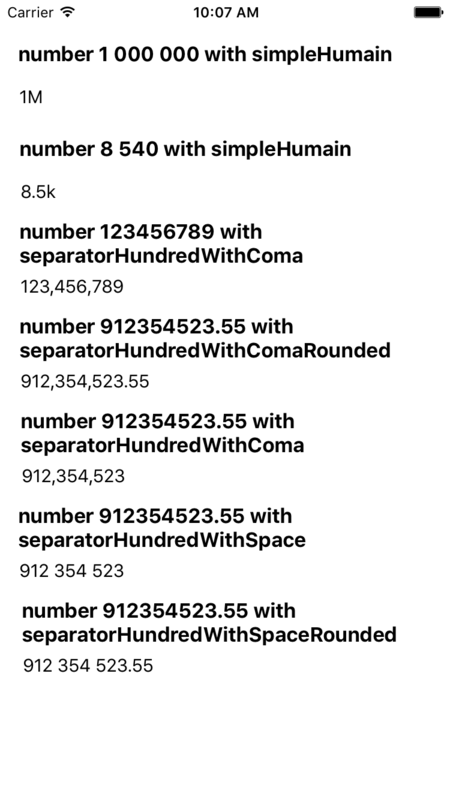
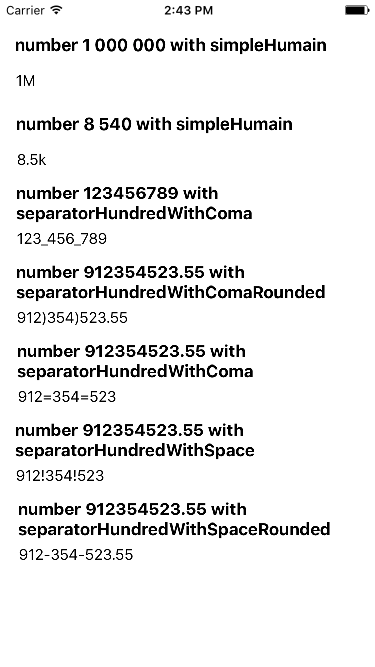
You can now specify a custom separator. Bug fixed when there is only one remaining number (ex: it was printing 4300 instead of 4,300). Unit Test modified. ViewController code changed. There is now two options (SeperatorHundred or SeperatorHundredRounded). Framework code changed.

diff --git a/DEMO/VisualHumainNumberTests/VisualHumainNumberTests.swift b/DEMO/VisualHumainNumberTests/VisualHumainNumberTests.swift
@@ -10,9 +10,11 @@ import UIKit
 import XCTest
 
 class VisualHumainNumberTests: XCTestCase {
-    
+
+
     override func setUp() {
         super.setUp()
+        continueAfterFailure = true;
         // Put setup code here. This method is called before the invocation of each test method in the class.
     }
     
@@ -20,95 +22,50 @@ class VisualHumainNumberTests: XCTestCase {
         // Put teardown code here. This method is called after the invocation of each test method in the class.
         super.tearDown()
     }
-    
-    func testExample() {
-        print("----")
-        
-        VisualHumainNumber(string: "987654321.1234567890")
-        
-        var numberString = "53430345.83"
-        let vhn :  VisualHumainNumber = VisualHumainNumber(string:numberString)
-        print(numberString)
-        print(vhn.getVisualHumainNumbers(notation: VisualHumainNumberNotation.separatorHundredWithComaRounded))
-        print(vhn.getVisualHumainNumbers(notation: VisualHumainNumberNotation.separatorHundredWithSpace))
-        print(vhn.getVisualHumainNumbers(notation: VisualHumainNumberNotation.separatorHundredWithComa))
-        print(vhn.getVisualHumainNumbers(notation: VisualHumainNumberNotation.simpleHumain))
-        print(" ")
-        numberString = "430345"
-        vhn.setNumber(string: numberString)
-        print(numberString)
-        print(vhn.getVisualHumainNumbers(notation: VisualHumainNumberNotation.separatorHundredWithSpace))
-        print(vhn.getVisualHumainNumbers(notation: VisualHumainNumberNotation.separatorHundredWithComa))
-        print(vhn.getVisualHumainNumbers(notation: VisualHumainNumberNotation.simpleHumain))
-        print(" ")
-        numberString = "4303453345"
-        vhn.setNumber(string: numberString)
-        print(numberString)
-        print(vhn.getVisualHumainNumbers(notation: VisualHumainNumberNotation.separatorHundredWithSpace))
-        print(vhn.getVisualHumainNumbers(notation: VisualHumainNumberNotation.separatorHundredWithComa))
-        print(vhn.getVisualHumainNumbers(notation: VisualHumainNumberNotation.simpleHumain))
-        print(" ")
-        numberString = "4303453"
-        vhn.setNumber(string: numberString)
-        print(numberString)
-        print(vhn.getVisualHumainNumbers(notation: VisualHumainNumberNotation.separatorHundredWithSpace))
-        print(vhn.getVisualHumainNumbers(notation: VisualHumainNumberNotation.separatorHundredWithComa))
-        print(vhn.getVisualHumainNumbers(notation: VisualHumainNumberNotation.simpleHumain))
-        print(" ")
-        numberString = "8532567"
-        vhn.setNumber(string: numberString)
-        print(numberString)
-        print(vhn.getVisualHumainNumbers(notation: VisualHumainNumberNotation.separatorHundredWithSpace))
-        print(vhn.getVisualHumainNumbers(notation: VisualHumainNumberNotation.separatorHundredWithComa))
-        print(vhn.getVisualHumainNumbers(notation: VisualHumainNumberNotation.simpleHumain))
-        print(" ")
-        numberString = "853256"
-        vhn.setNumber(string: numberString)
-        print(numberString)
-        print(vhn.getVisualHumainNumbers(notation: VisualHumainNumberNotation.separatorHundredWithSpace))
-        print(vhn.getVisualHumainNumbers(notation: VisualHumainNumberNotation.separatorHundredWithComa))
-        print(vhn.getVisualHumainNumbers(notation: VisualHumainNumberNotation.simpleHumain))
-        print(" ")
-        numberString = "85325"
-        vhn.setNumber(string: numberString)
-        print(numberString)
-        print(vhn.getVisualHumainNumbers(notation: VisualHumainNumberNotation.separatorHundredWithSpace))
-        print(vhn.getVisualHumainNumbers(notation: VisualHumainNumberNotation.separatorHundredWithComa))
-        print(vhn.getVisualHumainNumbers(notation: VisualHumainNumberNotation.simpleHumain))
-        print(" ")
-        numberString = "8532"
-        vhn.setNumber(string: numberString)
-        print(numberString)
-        print(vhn.getVisualHumainNumbers(notation: VisualHumainNumberNotation.separatorHundredWithSpace))
-        print(vhn.getVisualHumainNumbers(notation: VisualHumainNumberNotation.simpleHumain))
-        print(vhn.getVisualHumainNumbers(notation: VisualHumainNumberNotation.separatorHundredWithComa))
-        print(" ")
-        numberString = "853"
-        vhn.setNumber(string: numberString)
-        print(numberString)
-        print(vhn.getVisualHumainNumbers(notation: VisualHumainNumberNotation.separatorHundredWithSpace))
-        print(vhn.getVisualHumainNumbers(notation: VisualHumainNumberNotation.simpleHumain))
-        print(vhn.getVisualHumainNumbers(notation: VisualHumainNumberNotation.separatorHundredWithComa))
-        print(" ")
-        numberString = "85"
-        vhn.setNumber(string: numberString)
-        print(numberString)
-        print(vhn.getVisualHumainNumbers(notation: VisualHumainNumberNotation.separatorHundredWithSpace))
-        print(vhn.getVisualHumainNumbers(notation: VisualHumainNumberNotation.separatorHundredWithComa))
-        print(vhn.getVisualHumainNumbers(notation: VisualHumainNumberNotation.simpleHumain))
-        print(" ")
 
-        vhn.setNumber(long: 321445)
-        print(321445)
-        print(vhn.getVisualHumainNumbers(notation: VisualHumainNumberNotation.separatorHundredWithSpace))
-        print(vhn.getVisualHumainNumbers(notation: VisualHumainNumberNotation.separatorHundredWithComa))
-        print(vhn.getVisualHumainNumbers(notation: VisualHumainNumberNotation.simpleHumain))
+    func test1() {
+        let vhn: VisualHumainNumber = VisualHumainNumber(string: "53430345.83", separator: Character( "," ));
+        XCTAssertTrue( vhn.getVisualHumainNumbers(notation: .separatorHundredRounded) == "53,430,345.83");
+        vhn.separator = Character( " " )
+        XCTAssertTrue( vhn.getVisualHumainNumbers(notation: .separatorHundred) == "53 430 345" );
+        //XCTAssertTrue( vhn.getVisualHumainNumbers(notation: .separatorHundred) == "53,430,345" );
+        vhn.separator = Character( "." )
+        XCTAssertTrue( vhn.getVisualHumainNumbers(notation: .simpleHumain) == "53.4M" );
+        vhn.separator = Character( "😂" )
+        XCTAssertTrue( vhn.getVisualHumainNumbers(notation: .separatorHundred) == "53😂430😂345" );
 
-        print("----")
-        
-        // This is an example of a functional test case.
-        XCTAssert(true, "Pass")
     }
+
+    func test2() {
+        let vhn: VisualHumainNumber = VisualHumainNumber(string: "430345");
+        XCTAssertTrue( vhn.getVisualHumainNumbers(notation: .separatorHundredRounded) == "430,345.0");
+        XCTAssertTrue( vhn.getVisualHumainNumbers(notation: .separatorHundred) == "430,345" );
+        vhn.separator = Character( "!" );
+        XCTAssertTrue( vhn.getVisualHumainNumbers(notation: .separatorHundred) == "430!345" );
+        XCTAssertTrue( vhn.getVisualHumainNumbers(notation: .simpleHumain) == "430k" );
+    }
+
+    func test3() {
+        let vhn: VisualHumainNumber = VisualHumainNumber(string: "4303453345");
+        XCTAssertTrue( vhn.getVisualHumainNumbers(notation: .separatorHundredRounded) == "4,303,453,345.0");
+        vhn.separator = Character( " " );
+        XCTAssertTrue( vhn.getVisualHumainNumbers(notation: .separatorHundred) == "4 303 453 345" );
+        vhn.separator = Character( "," );
+        XCTAssertTrue( vhn.getVisualHumainNumbers(notation: .separatorHundred) == "4,303,453,345" );
+        XCTAssertTrue( vhn.getVisualHumainNumbers(notation: .simpleHumain) == "4.3B" );
+    }
+
+    func test4() {
+        let vhn: VisualHumainNumber = VisualHumainNumber(long: 321445);
+        XCTAssertTrue( vhn.getVisualHumainNumbers(notation: .separatorHundredRounded) == "321,445.0");
+        vhn.separator = Character( " " );
+        XCTAssertTrue( vhn.getVisualHumainNumbers(notation: .separatorHundred) == "321 445" );
+        vhn.separator = Character( "~" );
+        XCTAssertTrue( vhn.getVisualHumainNumbers(notation: .separatorHundred) == "321~445" );
+        XCTAssertTrue( vhn.getVisualHumainNumbers(notation: .simpleHumain) == "321k" );
+    }
+
+
     
     func testPerformanceExample() {
         // This is an example of a performance test case.

diff --git a/SRC/VisualHumainNumber.swift b/SRC/VisualHumainNumber.swift
@@ -30,25 +30,42 @@ import Foundation
 /// - returns: VisualHumainNumberNotation.
 @objc public enum VisualHumainNumberNotation : Int {
     case simpleHumain
-    case separatorHundredWithSpace
-    case separatorHundredWithComa
-    case separatorHundredWithSpaceRounded
-    case separatorHundredWithComaRounded
+    case separatorHundred
+    case separatorHundredRounded
 }
 
 @objc public class VisualHumainNumber: NSObject {
     
     fileprivate var visualHumainNumbersDecimal : Double = 0
     fileprivate var visualHumainNumbersInteger : Int64 = 0
+    fileprivate var _separator = Character( "," );
+
+    var separator: Character? {
+        get {
+            return _separator
+        }
+        set {
+            if let newValue = newValue {
+                self._separator = newValue;
+            }
+        }
+    }
+
+
+    public init(string :String, separator: Character? = nil)    {
+        super.init ()
+        self.separator = separator;
+    _ = self.setNumber(string: string)}
     
-   public init(string :String)    { super.init ()
-    self.setNumber(string: string)}
+    public init(double: Double, separator: Character? = nil)    {
+        super.init ()
+        self.separator = separator;
+    _ = self.setNumber(double: double) }
     
-   public init(double: Double)    { super.init ()
-    self.setNumber(double: double) }
-    
-   public init(long: Int64)       { super.init ()
-    self.setNumber(long: long) }
+    public init(long: Int64, separator: Character? = nil)       {
+        super.init ()
+        self.separator = separator;
+    _ = self.setNumber(long: long) }
     
    open func setNumber(string : String) ->  VisualHumainNumber {
         self.visualHumainNumbersDecimal =  VisualHumainNumber.trimAllNumberToDecimal(string)
@@ -66,16 +83,26 @@ import Foundation
         self.visualHumainNumbersInteger = long
         return self
     }
+
     
     fileprivate func separator(notation : VisualHumainNumberNotation, lenghtForSeparator : Int, separator : Character) -> String {
         var s  = ""
-        var r = ""
+        var result = ""
         var __all_count = 0
-        var __start = (notation == .separatorHundredWithComaRounded || notation == .separatorHundredWithSpaceRounded) ? false : true
-        let __true_length_decimal = (notation == .separatorHundredWithComaRounded || notation == .separatorHundredWithSpaceRounded) ? 3 : 0
+
+        var __start = true;
+        var __true_length_decimal = 0;
+
+        if notation == .separatorHundredRounded {
+            __start = false;
+            __true_length_decimal = 3;
+
+        }
+        /*var __start = (notation == .separatorHundredRounded) ? false : true
+        let __true_length_decimal = (notation == .separatorHundredRounded) ? 3 : 0*/
         
         switch notation {
-        case .separatorHundredWithComaRounded, .separatorHundredWithSpaceRounded :
+        case .separatorHundredRounded :
             s = VisualHumainNumber.inverseString(String(stringInterpolationSegment: self.visualHumainNumbersDecimal))
             break
         default:
@@ -87,17 +114,17 @@ import Foundation
         
         for c in s.characters {
             if __start == true {
-                if __all_count % lenghtForSeparator == 0 && __all_count < s.characters.count - __true_length_decimal && __all_count > 0 {
-                    r.append(separator)
+                if __all_count % lenghtForSeparator == 0 && __all_count <= s.characters.count - __true_length_decimal && __all_count > 0 {
+                    result.append(separator)
                 }
                 __all_count += 1
             } else if c == "." {
                 __start = true
             }
-            r.append(c)
+            result.append(c)
         }
         
-        return VisualHumainNumber.inverseString(r)
+        return VisualHumainNumber.inverseString(result)
     }
     
     fileprivate func simpleHumain(notation : VisualHumainNumberNotation) -> String {
@@ -105,7 +132,7 @@ import Foundation
         let __ = self.visualHumainNumbersDecimal
         
         var r : Double = 0
-        var finalNotation : VisualHumainNumberNotation = .separatorHundredWithComaRounded
+        var finalNotation : VisualHumainNumberNotation = .separatorHundredRounded
         var type = 0
         
         if __ < 1000 {
@@ -123,8 +150,8 @@ import Foundation
         }
         
         var rs  = "\(floor(r * 10) / 10)"
-        if (floor(r * 10) / 10).truncatingRemainder(dividingBy: 1) == 0 {  rs = "\(Int64(floor(r)))" ;  finalNotation = .separatorHundredWithComa }
-        let __rs_i = VisualHumainNumber.getDoubleFromString(rs) ;  if __rs_i >= 100 { rs = "\(Int64(floor(__rs_i)))" ; finalNotation = .separatorHundredWithComa }
+        if (floor(r * 10) / 10).truncatingRemainder(dividingBy: 1) == 0 {  rs = "\(Int64(floor(r)))" ;  finalNotation = .separatorHundred }
+        let __rs_i = VisualHumainNumber.getDoubleFromString(rs) ;  if __rs_i >= 100 { rs = "\(Int64(floor(__rs_i)))" ; finalNotation = .separatorHundred }
         let __arr = VisualHumainNumber(string: rs)
         return __arr.getVisualHumainNumbers(notation: finalNotation) + (type == 1 ? "k" : (type == 2 ? "M" : (type == 3 ? "B" : "")))
     }
@@ -142,22 +169,19 @@ import Foundation
         switch notation {
         case .simpleHumain:
             return self.simpleHumain(notation: notation)
-        case .separatorHundredWithComa, .separatorHundredWithComaRounded:
-            return self.separator(notation: notation, lenghtForSeparator: 3, separator: Character(","))
-        case .separatorHundredWithSpace, .separatorHundredWithSpaceRounded:
-            return self.separator(notation: notation, lenghtForSeparator: 3, separator: Character(" "))
+        case .separatorHundred, .separatorHundredRounded:
+            return self.separator(notation: notation, lenghtForSeparator: 3, separator: self.separator!)
         }
     }
     
     
-    /// Function inverse order of a string, the 1 become last and last the frist.
+    /// Function inverse order of a string, the 1 become last and last the first.
     ///
     ///
     ///
     /// - parameter String: The string to reverse order.
     /// - returns: String.
     open class func inverseString (_ string :String) -> String {
-        
         var s = ""
         for c in string.characters {
             s = "\(c)" + s

diff --git a/DEMO/ViewController/ViewController.swift b/DEMO/ViewController/ViewController.swift
@@ -21,14 +21,14 @@ class ViewController: UIViewController {
 
     override func viewDidLoad() {
         super.viewDidLoad()
-
-        self.label1.text = VisualHumainNumber(long: 1000000).getVisualHumainNumbers(notation: VisualHumainNumberNotation.simpleHumain)
-        self.label2.text = VisualHumainNumber(string: "8 540").getVisualHumainNumbers(notation: VisualHumainNumberNotation.simpleHumain)
-        self.label3.text = VisualHumainNumber(string: "123456789").getVisualHumainNumbers(notation: VisualHumainNumberNotation.separatorHundredWithComa)
-        self.label4.text = VisualHumainNumber(double: 912354523.55).getVisualHumainNumbers(notation: VisualHumainNumberNotation.separatorHundredWithComaRounded)
-        self.label5.text = VisualHumainNumber(double: 912354523.55).getVisualHumainNumbers(notation: VisualHumainNumberNotation.separatorHundredWithComa)
-        self.label6.text = VisualHumainNumber(double: 912354523.55).getVisualHumainNumbers(notation: VisualHumainNumberNotation.separatorHundredWithSpace)
-        self.label7.text = VisualHumainNumber(double: 912354523.55).getVisualHumainNumbers(notation: VisualHumainNumberNotation.separatorHundredWithSpaceRounded)
+        
+        self.label1.text = VisualHumainNumber(long: 1000000, separator: Character( " " )).getVisualHumainNumbers(notation: VisualHumainNumberNotation.simpleHumain)
+        self.label2.text = VisualHumainNumber(string: "8 540", separator: Character( "," )).getVisualHumainNumbers(notation: VisualHumainNumberNotation.simpleHumain)
+        self.label3.text = VisualHumainNumber(string: "123456789", separator: Character( "_" )).getVisualHumainNumbers(notation: VisualHumainNumberNotation.separatorHundred)
+        self.label4.text = VisualHumainNumber(double: 912354523.55, separator: Character( ")" )).getVisualHumainNumbers(notation: VisualHumainNumberNotation.separatorHundredRounded)
+        self.label5.text = VisualHumainNumber(double: 912354523.55, separator: Character( "=" )).getVisualHumainNumbers(notation: VisualHumainNumberNotation.separatorHundred)
+        self.label6.text = VisualHumainNumber(double: 912354523.55, separator: Character( "!" )).getVisualHumainNumbers(notation: VisualHumainNumberNotation.separatorHundred)
+        self.label7.text = VisualHumainNumber(double: 912354523.55, separator: Character( "-" )).getVisualHumainNumbers(notation: VisualHumainNumberNotation.separatorHundredRounded)
     }
 
   
